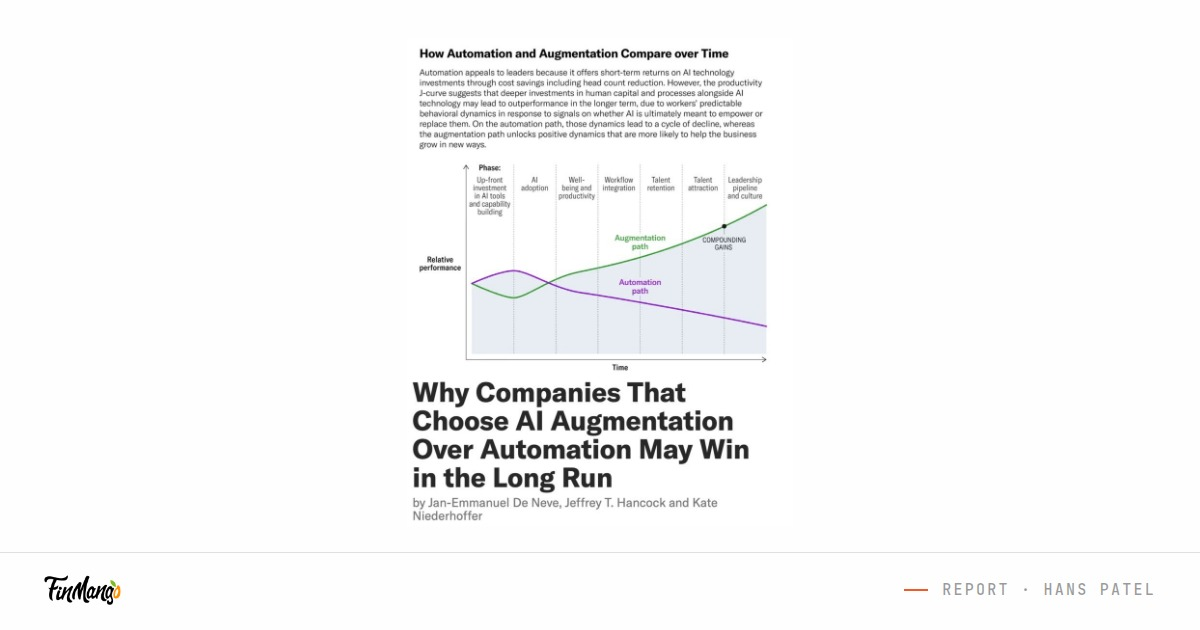
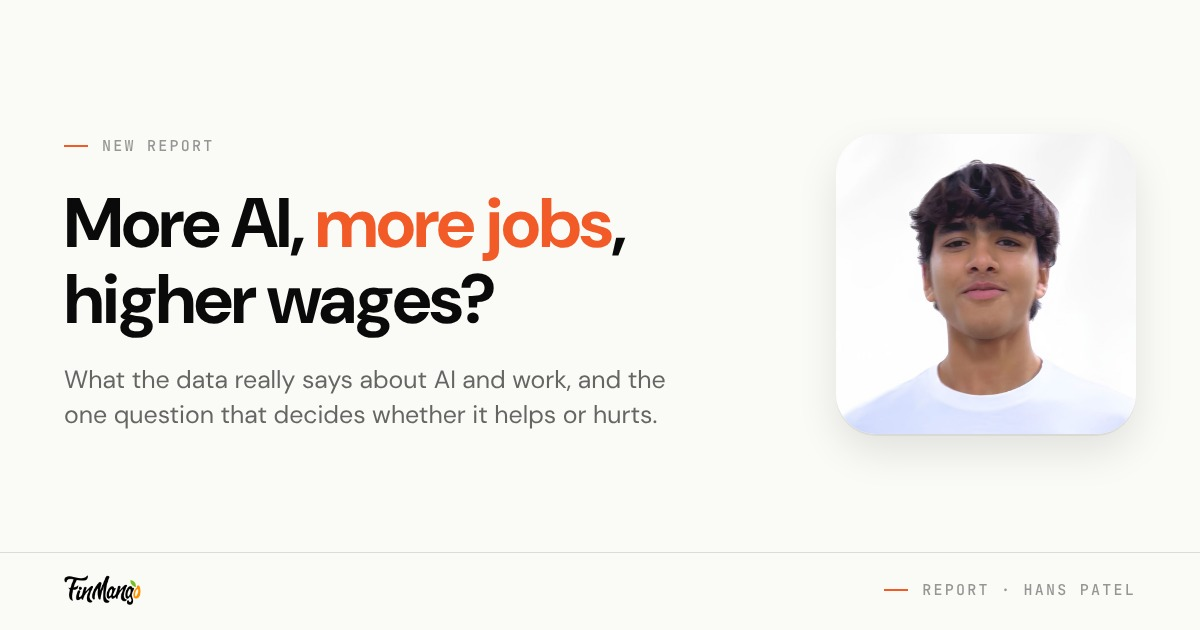
Hand-made share card for Hans Patel's AI and jobs report
The note's cover is a screenshot of an HBR article, so the link preview read
as someone else's post. Replace the share image with a FinMango-styled card
(headline, Hans's headshot, brand strip) and give the OG pipeline a "custom"
mode so the daily generator leaves hand-made cards alone, --force included.

- scripts/og-custom/<id>.html: the card's source page
- scripts/render-og-custom.js: renders it to og/posts/<id>.jpg and updates
  the manifest
- scripts/generate-post-og.js: "og": "custom" in data/cover-tuning.json
  marks a card as hand-made; it is kept, never rebuilt
- docs/POSTS-SETUP.md: how to make one

The article's own hero image is unchanged; only the share image is.

Claude-Session: https://claude.ai/code/session_01NMzgVqfAZfAoJXvFpdDgvz

diff --git a/scripts/og-custom/ai-exposure-wages-and-employment-augmentation-vs-s-260911-193304.html b/scripts/og-custom/ai-exposure-wages-and-employment-augmentation-vs-s-260911-193304.html
@@ -1,0 +1,132 @@
+<!DOCTYPE html>
+<html lang="en">
+<head>
+<meta charset="UTF-8" />
+<title>Social card — AI Exposure, Wages, and Employment (Hans Patel)</title>
+<style>
+  /* Hand-made 1200x630 share card for one Ambassador Note. Same fonts and
+     tokens as scripts/og-post-template.html; render with
+     scripts/render-og-custom.js. Kept so the card can be re-made later. */
+  @font-face {
+    font-family: 'DM Sans';
+    src: url('../fonts/dm-sans-var.woff2') format('woff2');
+    font-weight: 100 1000;
+    font-style: normal;
+  }
+  @font-face {
+    font-family: 'JetBrains Mono';
+    src: url('../fonts/jetbrains-mono-500.woff2') format('woff2');
+    font-weight: 500;
+    font-style: normal;
+  }
+  :root {
+    --paper: #FAFAF7;
+    --ink: #0A0A0A;
+    --orange: #F25A27;
+    --ink-faint: rgba(10, 10, 10, .42);
+    --ink-soft: rgba(10, 10, 10, .62);
+    --ink-line-soft: rgba(10, 10, 10, .12);
+  }
+  * { box-sizing: border-box; margin: 0; padding: 0; }
+  html, body {
+    width: 1200px; height: 630px;
+    font-family: 'DM Sans', -apple-system, sans-serif;
+    background: var(--paper);
+    color: var(--ink);
+    -webkit-font-smoothing: antialiased;
+    overflow: hidden;
+  }
+  #capture {
+    position: relative;
+    width: 1200px; height: 630px;
+    background: var(--paper);
+    display: flex;
+    flex-direction: column;
+    overflow: hidden;
+  }
+  .main {
+    flex: 1;
+    min-height: 0;
+    display: flex;
+    align-items: center;
+    gap: 56px;
+    padding: 52px 64px 36px;
+  }
+  .text { flex: 1; min-width: 0; }
+  .eyebrow {
+    font-family: 'JetBrains Mono', monospace;
+    font-size: 15px;
+    letter-spacing: .15em;
+    text-transform: uppercase;
+    color: var(--ink-faint);
+    display: flex;
+    align-items: center;
+    gap: 14px;
+    margin-bottom: 30px;
+  }
+  .eyebrow .tick { width: 24px; height: 2px; background: var(--orange); flex: none; }
+  h1 {
+    font-size: 70px;
+    line-height: 1.08;
+    font-weight: 700;
+    letter-spacing: -.025em;
+    margin-bottom: 26px;
+  }
+  h1 em { font-style: normal; color: var(--orange); }
+  .sub {
+    font-size: 25px;
+    line-height: 1.38;
+    color: var(--ink-soft);
+    max-width: 640px;
+  }
+  .photo {
+    flex: none;
+    width: 300px; height: 300px;
+    border-radius: 40px;
+    overflow: hidden;
+    background: #fff;
+    box-shadow: 0 2px 0 rgba(10,10,10,.06), 0 18px 40px rgba(10,10,10,.10);
+  }
+  .photo img { width: 100%; height: 100%; object-fit: cover; display: block; }
+  .strip {
+    flex: none;
+    height: 78px;
+    display: flex;
+    align-items: center;
+    justify-content: space-between;
+    gap: 24px;
+    padding: 0 64px 4px;
+    border-top: 1px solid var(--ink-line-soft);
+  }
+  .brand-logo { height: 30px; width: auto; display: block; }
+  .meta {
+    font-family: 'JetBrains Mono', monospace;
+    font-size: 15px;
+    letter-spacing: .15em;
+    text-transform: uppercase;
+    color: var(--ink-faint);
+    display: flex;
+    align-items: center;
+    gap: 14px;
+    white-space: nowrap;
+  }
+  .meta .tick { width: 24px; height: 2px; background: var(--orange); flex: none; }
+</style>
+</head>
+<body>
+<div id="capture">
+  <div class="main">
+    <div class="text">
+      <div class="eyebrow"><span class="tick"></span>New report</div>
+      <h1>More AI, <em>more jobs</em>, higher wages?</h1>
+      <p class="sub">What the data really says about AI and work, and the one question that decides whether it helps or hurts.</p>
+    </div>
+    <div class="photo"><img src="../../36.jpg" alt="Hans Patel" /></div>
+  </div>
+  <div class="strip">
+    <img class="brand-logo" src="../../finmango.png" alt="FinMango" />
+    <div class="meta"><span class="tick"></span>Report · Hans Patel</div>
+  </div>
+</div>
+</body>
+</html>

diff --git a/scripts/render-og-custom.js b/scripts/render-og-custom.js
@@ -1,0 +1,94 @@
+#!/usr/bin/env node
+/**
+ * Render a hand-made social card for one Ambassador Note.
+ *
+ * Most notes get their share image automatically (the raw cover, or a card
+ * built by scripts/generate-post-og.js). When a cover makes a poor share — a
+ * screenshot of someone else's article, say — write a 1200x630 page under
+ * scripts/og-custom/<postId>.html, render it with this script, and mark the
+ * note `"og": "custom"` in data/cover-tuning.json so the daily generator
+ * leaves the card alone.
+ *
+ *   node scripts/render-og-custom.js <postId>
+ *
+ * Writes og/posts/<postId>.jpg and records it in og/posts/manifest.json, which
+ * is what functions/post.js reads to point og:image at the card.
+ */
+
+const fs = require('fs');
+const path = require('path');
+
+const ROOT = path.join(__dirname, '..');
+const SRC_DIR = path.join(__dirname, 'og-custom');
+const OUT_DIR = path.join(ROOT, 'og', 'posts');
+const MANIFEST = path.join(OUT_DIR, 'manifest.json');
+const CARD_W = 1200;
+const CARD_H = 630;
+
+const id = (process.argv[2] || '').trim();
+if (!id || /[^a-z0-9-]/.test(id)) {
+  console.error('usage: node scripts/render-og-custom.js <postId>   (ids are lowercase slugs)');
+  process.exit(1);
+}
+
+const src = path.join(SRC_DIR, id + '.html');
+if (!fs.existsSync(src)) {
+  console.error('no source page at ' + path.relative(ROOT, src));
+  process.exit(1);
+}
+
+function findChrome() {
+  return [process.env.CHROME_PATH, '/opt/pw-browsers/chromium']
+    .filter(Boolean).find(p => fs.existsSync(p));
+}
+
+function loadPuppeteer() {
+  try { return require('puppeteer'); } catch (e) { /* fall through */ }
+  try { return require('puppeteer-core'); } catch (e) { /* fall through */ }
+  throw new Error('puppeteer not installed — run: npm i --no-save puppeteer-core');
+}
+
+async function main() {
+  const puppeteer = loadPuppeteer();
+  const launchOpts = {
+    headless: 'new',
+    args: ['--no-sandbox', '--disable-setuid-sandbox', '--font-render-hinting=medium']
+  };
+  const chrome = findChrome();
+  if (chrome) launchOpts.executablePath = chrome;
+
+  fs.mkdirSync(OUT_DIR, { recursive: true });
+  const out = path.join(OUT_DIR, id + '.jpg');
+  const browser = await puppeteer.launch(launchOpts);
+  try {
+    const page = await browser.newPage();
+    await page.setViewport({ width: CARD_W, height: CARD_H, deviceScaleFactor: 1 });
+    await page.goto('file://' + src, { waitUntil: 'networkidle0' });
+    await page.evaluate(() => document.fonts.ready);
+    const el = await page.$('#capture');
+    if (!el) throw new Error('source page has no #capture element');
+    await el.screenshot({ path: out, type: 'jpeg', quality: 92 });
+  } finally {
+    await browser.close();
+  }
+
+  let manifest;
+  try { manifest = JSON.parse(fs.readFileSync(MANIFEST, 'utf8')); } catch (e) { manifest = null; }
+  if (!manifest || typeof manifest !== 'object') manifest = { generated: '', posts: {} };
+  if (!manifest.posts || typeof manifest.posts !== 'object') manifest.posts = {};
+  const prev = manifest.posts[id] || {};
+  manifest.posts[id] = {
+    card: 'og/posts/' + id + '.jpg', w: CARD_W, h: CARD_H,
+    cover: prev.cover || '', ratio: prev.ratio == null ? null : prev.ratio,
+    mode: 'custom', renderer: prev.renderer == null ? 1 : prev.renderer
+  };
+  manifest.generated = new Date().toISOString();
+  const ordered = {};
+  Object.keys(manifest.posts).sort().forEach(k => { ordered[k] = manifest.posts[k]; });
+  manifest.posts = ordered;
+  fs.writeFileSync(MANIFEST, JSON.stringify(manifest, null, 2) + '\n');
+
+  console.log('✓ ' + path.relative(ROOT, out) + ' — ' + Math.round(fs.statSync(out).size / 1024) + 'KB (custom card)');
+}
+
+main().catch(err => { console.error(err.message); process.exit(1); });

diff --git a/scripts/generate-post-og.js b/scripts/generate-post-og.js
@@ -86,7 +86,7 @@ const coverUrl = cover => String(cover).replace(/&amp;/g, '&');
 function tunedMode(tuning, id) {
   const entry = tuning && tuning[id];
   const mode = entry && typeof entry === 'object' ? entry.og : '';
-  return mode === 'card' || mode === 'cover' ? mode : 'auto';
+  return mode === 'card' || mode === 'cover' || mode === 'custom' ? mode : 'auto';
 }
 
 function tunedBg(tuning, id) {
@@ -135,9 +135,31 @@ async function main() {
   const manifest = readJson(MANIFEST, null) || { generated: '', posts: {} };
   if (!manifest.posts || typeof manifest.posts !== 'object') manifest.posts = {};
 
+  // A hand-made card (scripts/render-og-custom.js, marked "og": "custom" in
+  // data/cover-tuning.json) is never rebuilt here, --force included: it was
+  // drawn by a person, not from the cover. Its manifest entry just gets the
+  // current cover noted so a later switch back to automatic starts clean.
+  const custom = rows.filter(row => tunedMode(tuning, row.id) === 'custom');
+  let kept = 0;
+  for (const row of custom) {
+    const rel = 'og/posts/' + safeId(row.id) + '.jpg';
+    if (!fs.existsSync(path.join(ROOT, rel))) {
+      console.warn('::warning::' + row.id + ' is marked "custom" but ' + rel + ' is missing — '
+        + 'run: node scripts/render-og-custom.js ' + row.id);
+      continue;
+    }
+    const prev = manifest.posts[row.id] || {};
+    manifest.posts[row.id] = {
+      card: rel, w: CARD_W, h: CARD_H, cover: coverUrl(row.cover),
+      ratio: prev.ratio == null ? null : prev.ratio, mode: 'custom', renderer: RENDERER
+    };
+    kept++;
+  }
+
   // A post needs looking at when we've never seen it, when its cover changed,
   // when an editor changed its og mode, or when the template moved on.
   const pending = rows.filter(row => {
+    if (tunedMode(tuning, row.id) === 'custom') return false;
     if (FORCE) return true;
     const known = manifest.posts[row.id];
     if (!known) return true;
@@ -149,7 +171,9 @@ async function main() {
   });
 
   if (!pending.length) {
-    console.log('Social cards up to date — ' + rows.length + ' notes checked, nothing to build.');
+    if (kept) writeManifest(manifest);
+    console.log('Social cards up to date — ' + rows.length + ' notes checked, nothing to build'
+      + (kept ? ' (' + kept + ' hand-made card(s) kept)' : '') + '.');
     return;
   }
 
@@ -213,13 +237,18 @@ async function main() {
     await browser.close();
   }
 
+  writeManifest(manifest);
+
+  console.log('Done — ' + built + ' card(s) built, ' + skipped + ' cover(s) left full-bleed, '
+    + kept + ' hand-made card(s) kept, ' + failed + ' failed.');
+}
+
+function writeManifest(manifest) {
   manifest.generated = new Date().toISOString();
   const ordered = {};
   Object.keys(manifest.posts).sort().forEach(k => { ordered[k] = manifest.posts[k]; });
   manifest.posts = ordered;
   fs.writeFileSync(MANIFEST, JSON.stringify(manifest, null, 2) + '\n');
-
-  console.log('Done — ' + built + ' card(s) built, ' + skipped + ' cover(s) left full-bleed, ' + failed + ' failed.');
 }
 
 main().catch(err => {

diff --git a/docs/POSTS-SETUP.md b/docs/POSTS-SETUP.md
@@ -284,7 +284,7 @@ Edit, commit, done — no re-upload, no change to the Sheet. Keys are post ids
 | `fit` | `"cover"` crops to fill the frame, `"contain"` shows the whole cover letterboxed. Omit for automatic. |
 | `focus` | Which part survives a crop, as a CSS `object-position` — `"50% 20%"`, `"left top"`. This is the "move the crop" knob. |
 | `bg` | Letterbox bar colour. Omit to sample the cover's edge. |
-| `og` | `"card"` forces a social card, `"cover"` forces the raw cover into shares. Omit for automatic. |
+| `og` | `"card"` forces a social card, `"cover"` forces the raw cover into shares, `"custom"` keeps a hand-made card (below). Omit for automatic. |
 
 The file is served with a 1-hour cache, so allow up to an hour for a change to
 reach everyone (or re-scrape with the platform debuggers linked above).
@@ -316,6 +316,24 @@ command above, or trigger the workflow by hand from the Actions tab.
 To re-frame a note *after* publishing, in order of effort: set `focus` (move the
 crop), set `fit` (stop cropping), set `og` and re-run the generator (change the
 share), or ask the author for a new cover and re-run with `--force`.
+
+### 4. Hand-made cards
+
+Sometimes no framing of the cover makes a good share — a screenshot of someone
+else's article, say, which reads as *their* post in the feed. For those, draw
+the card by hand: copy an existing page under `scripts/og-custom/` to
+`scripts/og-custom/<postId>.html` (same fonts and tokens as the automatic
+template; the `#capture` element is what gets captured), then
+
+```bash
+node scripts/render-og-custom.js <postId>
+```
+
+and add `"og": "custom"` for the note in `data/cover-tuning.json`. The render
+writes `og/posts/<postId>.jpg` and its manifest entry; the `custom` flag tells
+the daily generator to leave that card alone, `--force` included. The cover on
+the article page itself is unchanged — only the share image is. To go back to
+automatic, drop the flag and re-run the generator with `--id=<postId>`.
 
 ## Optional upgrade: pre-render to static files (SEO)
 
